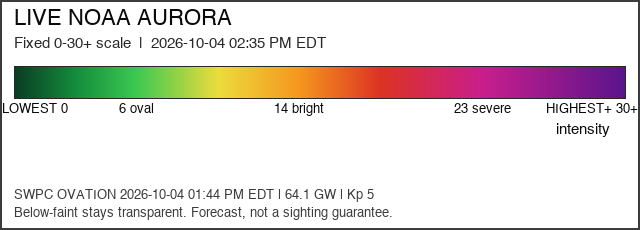
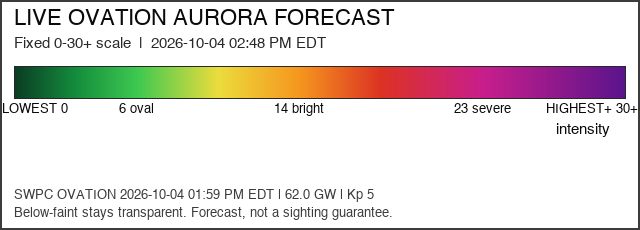
Rename aurora layer to LIVE OVATION AURORA FORECAST

diff --git a/site/index.html b/site/index.html
@@ -147,10 +147,10 @@ distribution gradients. Each layer can be toggled on/off by itself.</p>
 
 
 <div class="card" id="aurora">
-<h2>🌌 Live NOAA Aurora</h2>
+<h2>🌌 Live Ovation Aurora Forecast</h2>
 <p><small id="aurora-meta">loading…</small></p>
 <img class="legend" src="aurora/legend.png" alt="aurora legend">
-<p><a href="kml/Great_Lakes_Live_Aurora.kml">Open in Google Earth (KML)</a> ·
+<p><a href="kml/Great_Lakes_Live_Ovation_Aurora_Forecast.kml">Open in Google Earth (KML)</a> ·
 <a href="aurora/current.png">current.png</a> ·
 <a href="aurora/metadata.json">metadata.json</a></p>
 </div>

diff --git a/scripts/build_aurora.py b/scripts/build_aurora.py
@@ -1,4 +1,4 @@
-"""Pipeline — LIVE NOAA AURORA (independent).
+"""Pipeline — LIVE OVATION AURORA FORECAST (independent).
 
 NOAA/SWPC OVATION Prime aurora model (the model family behind the NOAA
 Aurora Viewline Tonight/Tomorrow-Night product):
@@ -60,8 +60,8 @@ from gradient_scale import draw_scale_legend, render_rgba
 PRODUCT = "aurora"
 CONFIG = json.load(open(os.path.join(REPO_ROOT, "config", f"{PRODUCT}.json")))
 RAW_DIR = os.path.join(REPO_ROOT, "output", "raw")
-KML_FILE = "Great_Lakes_Live_Aurora.kml"
-OVERLAY_NAME = "\U0001F30C LIVE NOAA AURORA"
+KML_FILE = "Great_Lakes_Live_Ovation_Aurora_Forecast.kml"
+OVERLAY_NAME = "\U0001F30C LIVE OVATION AURORA FORECAST"
 SKIP_NOTE = "Turn on/off independently of all other layers."
 AURORA_ALPHA = 205  # same as the shared overlay_alpha
 UA = {"User-Agent": "great-lakes-live-environment/1.0"}

diff --git a/scripts/validate_outputs.py b/scripts/validate_outputs.py
@@ -63,7 +63,7 @@ PRODUCTS = {
                          "max_opaque_min": 10_000},
     "wave_direction": {"kml": "Great_Lakes_Live_Wave_Direction.kml",
                        "max_opaque_min": 10_000},
-    "aurora": {"kml": "Great_Lakes_Live_Aurora.kml",
+    "aurora": {"kml": "Great_Lakes_Live_Ovation_Aurora_Forecast.kml",
                "max_opaque_min": 0},  # quiet-oval intervals => transparent OK (like clear-sky cloud)
     "bacteria": {"kml": "Great_Lakes_Live_Water_Quality.kml",
                  "max_opaque_min": 100},  # NO DATA slate covers all lake water

diff --git a/scripts/selftest.py b/scripts/selftest.py
@@ -456,7 +456,7 @@ def _k(p):
             "surface_pressure": "Surface_Pressure",
             "wave_direction": "Wave_Direction",
             "precipitation": "Precipitation",
-            "aurora": "Aurora",
+            "aurora": "Ovation_Aurora_Forecast",
             "bacteria": "Water_Quality"}[p]
 
 

diff --git a/README.md b/README.md
@@ -23,7 +23,7 @@ sources, plus **sixteen live game-fish distribution gradients** (see below).
 | 🧭 Live Wave Direction | NCEP GLWU v2.1 PERPW peak period (seconds) + WVDIR travel arrows, water-only | LIVE / CURRENT MODEL (analysis), 6-hourly cycles |
 | 🧭 Live Wave Direction | NCEP GLWU v2.1 PERPW peak period (seconds) + WVDIR travel arrows, water-only | LIVE / CURRENT MODEL (analysis), 6-hourly cycles |
 | 🌧 Live Precipitation | IEM (Iowa State) CONUS NEXRAD N0Q base reflectivity from NOAA WSR-88D (dBZ, all-season rain/snow/storms), 5-min mosaic; basin rectangle, no-echo transparent | LIVE / CURRENT OBSERVATION (NEXRAD 5-min mosaic) |
-| 🌌 Live NOAA Aurora | NOAA/SWPC OVATION Prime auroral grid (`ovation_aurora_latest.json`) + hemispheric power / forecast Kp context; fixed 0–30+ intensity scale, full basin rectangle (same footprint as Leaf Color) | LIVE / CURRENT FORECAST (OVATION Prime, hourly check) |
+| 🌌 Live Ovation Aurora Forecast | NOAA/SWPC OVATION Prime auroral grid (`ovation_aurora_latest.json`) + hemispheric power / forecast Kp context; fixed 0–30+ intensity scale, full basin rectangle (same footprint as Leaf Color) | LIVE / CURRENT FORECAST (OVATION Prime, hourly check) |
 | 💧 Live Water Quality | USGS Water Quality Portal E. coli/enterococci (7-day newest-per-station halos) under EPA BEACON + EPA 2012 RWQC thresholds (GM/STV/BAV); NO DATA slate where unobserved, water-only all five lakes | SOURCE CHECKED HOURLY / LATEST VALID OBSERVATION |
 
 Sixteen additional **live game-fish distribution gradients** (walleye, yellow perch,

diff --git a/DATA_SOURCES.md b/DATA_SOURCES.md
@@ -542,7 +542,7 @@ the other products and the Pages publish proceed normally.
   primitive. Freshness wording: **"LIVE / CURRENT OBSERVATION
   (NEXRAD 5-min mosaic)"**.
 
-## 18. Aurora — NOAA/SWPC OVATION Prime (live forecast, hourly check)
+## 18. Ovation Aurora Forecast — NOAA/SWPC OVATION Prime (live forecast, hourly check)
 
 - **Product (verified live 2026-10-04):** OVATION Prime real-time auroral
   grid `https://services.swpc.noaa.gov/json/ovation_aurora_latest.json`
